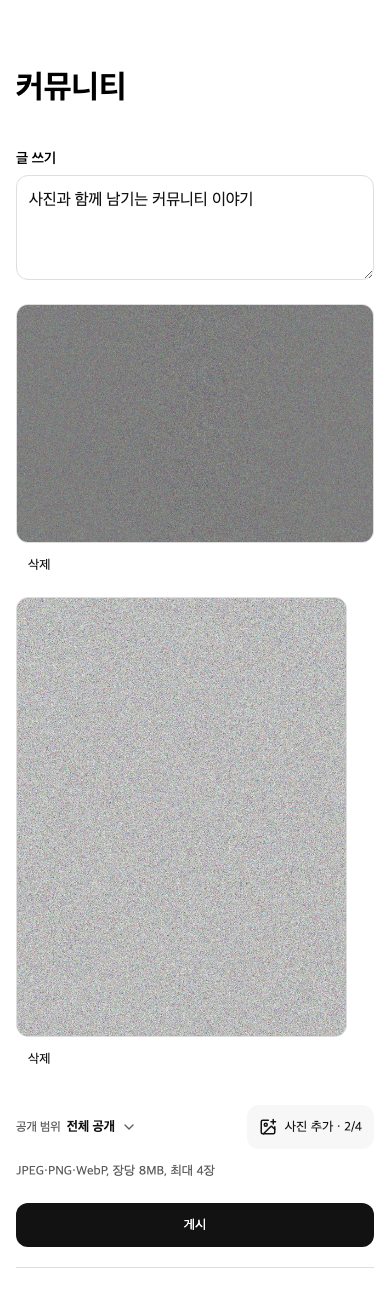
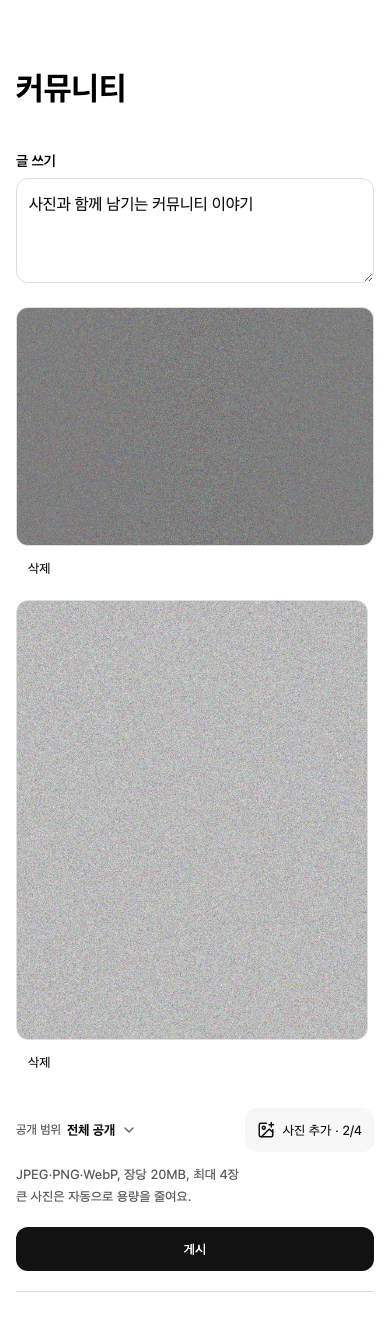
fix: improve automatic photo upload and retry feedback

diff --git a/apps/web/i18n/catalogs/features__fan_posts__ui.ts b/apps/web/i18n/catalogs/features__fan_posts__ui.ts
@@ -43,14 +43,17 @@ export const contentMessages = {
     "translationFailed": "번역하지 못했어요. 원문을 확인해 주세요.",
     "translationLimit": "번역 이용 한도에 도달했어요. 나중에 다시 시도해 주세요.",
     "photoFailed": "사진을 불러오지 못했어요.",
-    "photoLimit": "JPEG·PNG·WebP, 장당 8MB, 최대 4장",
+    "photoLimit": "JPEG·PNG·WebP, 장당 20MB, 최대 4장",
     "visibility": "공개 범위",
     "back": "돌아가기",
     "newComment": "댓글 쓰기",
     "replying": "답글 작성 중",
     "notice": "공지",
     "artistPost": "아티스트 소식",
-    "memberRequired": "이 아티스트의 발급된 Passport가 필요해요."
+    "memberRequired": "이 아티스트의 발급된 Passport가 필요해요.",
+    "photoUploadHint": "큰 사진은 자동으로 용량을 줄여요.",
+    "photoUploading": "사진 올리는 중…",
+    "photoUploadFailed": "사진을 올리지 못했어요. 다시 시도해 주세요."
   },
   "en": {
     "community": "Fan community",
@@ -94,14 +97,17 @@ export const contentMessages = {
     "translationFailed": "Translation failed. Please view the original.",
     "translationLimit": "Translation limit reached. Please try again later.",
     "photoFailed": "Could not load the photo.",
-    "photoLimit": "JPEG, PNG or WebP, up to 8MB each, 4 photos maximum",
+    "photoLimit": "JPEG, PNG or WebP, up to 20MB each, 4 photos maximum",
     "visibility": "Visibility",
     "back": "Back",
     "newComment": "Write a comment",
     "replying": "Writing a reply",
     "notice": "Notice",
     "artistPost": "Artist update",
-    "memberRequired": "An issued Passport for this artist is required."
+    "memberRequired": "An issued Passport for this artist is required.",
+    "photoUploadHint": "Large photos are resized automatically.",
+    "photoUploading": "Uploading photos…",
+    "photoUploadFailed": "Could not upload the photos. Please try again."
   },
   "ja": {
     "community": "ファンコミュニティ",
@@ -145,14 +151,17 @@ export const contentMessages = {
     "translationFailed": "翻訳できませんでした。原文をご確認ください。",
     "translationLimit": "翻訳の利用上限に達しました。しばらくしてからお試しください。",
     "photoFailed": "写真を読み込めませんでした。",
-    "photoLimit": "JPEG・PNG・WebP、1枚8MBまで、最大4枚",
+    "photoLimit": "JPEG・PNG・WebP、1枚20MBまで、最大4枚",
     "visibility": "公開範囲",
     "back": "戻る",
     "newComment": "コメントを書く",
     "replying": "返信を入力中",
     "notice": "お知らせ",
     "artistPost": "アーティスト情報",
-    "memberRequired": "このアーティストの発行済みPassportが必要です。"
+    "memberRequired": "このアーティストの発行済みPassportが必要です。",
+    "photoUploadHint": "容量の大きい写真は自動で縮小します。",
+    "photoUploading": "写真をアップロード中…",
+    "photoUploadFailed": "写真をアップロードできませんでした。もう一度お試しください。"
   },
   "zh-Hans": {
     "community": "粉丝社区",
@@ -196,14 +205,17 @@ export const contentMessages = {
     "translationFailed": "翻译失败，请查看原文。",
     "translationLimit": "已达到翻译使用上限，请稍后重试。",
     "photoFailed": "照片加载失败。",
-    "photoLimit": "JPEG、PNG或WebP，每张不超过8MB，最多4张",
+    "photoLimit": "JPEG、PNG或WebP，每张不超过20MB，最多4张",
     "visibility": "可见范围",
     "back": "返回",
     "newComment": "发表评论",
     "replying": "正在回复",
     "notice": "公告",
     "artistPost": "艺人动态",
-    "memberRequired": "需要持有已签发的该艺人Passport。"
+    "memberRequired": "需要持有已签发的该艺人Passport。",
+    "photoUploadHint": "较大的照片会自动压缩。",
+    "photoUploading": "正在上传照片…",
+    "photoUploadFailed": "照片上传失败，请重试。"
   },
   "zh-Hant": {
     "community": "粉絲社群",
@@ -247,14 +259,17 @@ export const contentMessages = {
     "translationFailed": "翻譯失敗，請查看原文。",
     "translationLimit": "已達翻譯使用上限，請稍後重試。",
     "photoFailed": "照片載入失敗。",
-    "photoLimit": "JPEG、PNG或WebP，每張最多8MB，最多4張",
+    "photoLimit": "JPEG、PNG或WebP，每張最多20MB，最多4張",
     "visibility": "可見範圍",
     "back": "返回",
     "newComment": "撰寫留言",
     "replying": "正在回覆",
     "notice": "公告",
     "artistPost": "藝人動態",
-    "memberRequired": "需要持有已核發的這位藝人Passport。"
+    "memberRequired": "需要持有已核發的這位藝人Passport。",
+    "photoUploadHint": "較大的照片會自動壓縮。",
+    "photoUploading": "正在上傳照片…",
+    "photoUploadFailed": "照片上傳失敗，請重試。"
   },
   "es": {
     "community": "Comunidad de fans",
@@ -298,14 +313,17 @@ export const contentMessages = {
     "translationFailed": "No se pudo traducir. Consulta el original.",
     "translationLimit": "Se alcanzó el límite de traducción. Inténtalo más tarde.",
     "photoFailed": "No se pudo cargar la foto.",
-    "photoLimit": "JPEG, PNG o WebP, hasta 8MB por foto, máximo 4",
+    "photoLimit": "JPEG, PNG o WebP, hasta 20MB por foto, máximo 4",
     "visibility": "Visibilidad",
     "back": "Volver",
     "newComment": "Escribir comentario",
     "replying": "Escribiendo una respuesta",
     "notice": "Aviso",
     "artistPost": "Novedad del artista",
-    "memberRequired": "Se requiere un Passport emitido de este artista."
+    "memberRequired": "Se requiere un Passport emitido de este artista.",
+    "photoUploadHint": "Las fotos grandes se reducen automáticamente.",
+    "photoUploading": "Subiendo fotos…",
+    "photoUploadFailed": "No se pudieron subir las fotos. Vuelve a intentarlo."
   },
   "id": {
     "community": "Komunitas penggemar",
@@ -349,14 +367,17 @@ export const contentMessages = {
     "translationFailed": "Terjemahan gagal. Silakan lihat teks asli.",
     "translationLimit": "Batas terjemahan tercapai. Coba lagi nanti.",
     "photoFailed": "Foto tidak dapat dimuat.",
-    "photoLimit": "JPEG, PNG, atau WebP, maks. 8MB per foto, hingga 4 foto",
+    "photoLimit": "JPEG, PNG, atau WebP, maks. 20MB per foto, hingga 4 foto",
     "visibility": "Visibilitas",
     "back": "Kembali",
     "newComment": "Tulis komentar",
     "replying": "Menulis balasan",
     "notice": "Pengumuman",
     "artistPost": "Kabar artis",
-    "memberRequired": "Diperlukan Passport yang telah diterbitkan untuk artis ini."
+    "memberRequired": "Diperlukan Passport yang telah diterbitkan untuk artis ini.",
+    "photoUploadHint": "Foto berukuran besar diperkecil otomatis.",
+    "photoUploading": "Mengunggah foto…",
+    "photoUploadFailed": "Foto tidak dapat diunggah. Silakan coba lagi."
   },
   "vi": {
     "community": "Cộng đồng người hâm mộ",
@@ -400,14 +421,17 @@ export const contentMessages = {
     "translationFailed": "Không thể dịch. Vui lòng xem bản gốc.",
     "translationLimit": "Đã đạt giới hạn dịch. Vui lòng thử lại sau.",
     "photoFailed": "Không thể tải ảnh.",
-    "photoLimit": "JPEG, PNG hoặc WebP, tối đa 8MB mỗi ảnh, tối đa 4 ảnh",
+    "photoLimit": "JPEG, PNG hoặc WebP, tối đa 20MB mỗi ảnh, tối đa 4 ảnh",
     "visibility": "Phạm vi hiển thị",
     "back": "Quay lại",
     "newComment": "Viết bình luận",
     "replying": "Đang viết trả lời",
     "notice": "Thông báo",
     "artistPost": "Tin nghệ sĩ",
-    "memberRequired": "Cần có Passport đã được cấp cho nghệ sĩ này."
+    "memberRequired": "Cần có Passport đã được cấp cho nghệ sĩ này.",
+    "photoUploadHint": "Ảnh có dung lượng lớn được tự động giảm kích thước.",
+    "photoUploading": "Đang tải ảnh lên…",
+    "photoUploadFailed": "Không thể tải ảnh lên. Vui lòng thử lại."
   },
   "th": {
     "community": "ชุมชนแฟนคลับ",
@@ -451,14 +475,17 @@ export const contentMessages = {
     "translationFailed": "แปลไม่สำเร็จ โปรดดูต้นฉบับ",
     "translationLimit": "ถึงขีดจำกัดการแปลแล้ว โปรดลองใหม่ภายหลัง",
     "photoFailed": "โหลดรูปไม่สำเร็จ",
-    "photoLimit": "JPEG, PNG หรือ WebP ไม่เกินรูปละ 8MB สูงสุด 4 รูป",
+    "photoLimit": "JPEG, PNG หรือ WebP ไม่เกินรูปละ 20MB สูงสุด 4 รูป",
     "visibility": "การมองเห็น",
     "back": "กลับ",
     "newComment": "เขียนความคิดเห็น",
     "replying": "กำลังเขียนคำตอบ",
     "notice": "ประกาศ",
     "artistPost": "ข่าวศิลปิน",
-    "memberRequired": "ต้องมี Passport ที่ออกให้แล้วสำหรับศิลปินนี้"
+    "memberRequired": "ต้องมี Passport ที่ออกให้แล้วสำหรับศิลปินนี้",
+    "photoUploadHint": "รูปภาพขนาดใหญ่จะถูกลดขนาดโดยอัตโนมัติ",
+    "photoUploading": "กำลังอัปโหลดรูปภาพ…",
+    "photoUploadFailed": "อัปโหลดรูปภาพไม่ได้ โปรดลองอีกครั้ง"
   },
   "pt": {
     "community": "Comunidade de fãs",
@@ -502,14 +529,17 @@ export const contentMessages = {
     "translationFailed": "Não foi possível traduzir. Consulte o original.",
     "translationLimit": "Limite de tradução atingido. Tente mais tarde.",
     "photoFailed": "Não foi possível carregar a foto.",
-    "photoLimit": "JPEG, PNG ou WebP, até 8MB por foto, máximo de 4",
+    "photoLimit": "JPEG, PNG ou WebP, até 20MB por foto, máximo de 4",
     "visibility": "Visibilidade",
     "back": "Voltar",
     "newComment": "Escrever comentário",
     "replying": "A escrever uma resposta",
     "notice": "Aviso",
     "artistPost": "Novidade do artista",
-    "memberRequired": "É necessário um Passport emitido deste artista."
+    "memberRequired": "É necessário um Passport emitido deste artista.",
+    "photoUploadHint": "Fotos grandes são reduzidas automaticamente.",
+    "photoUploading": "Enviando fotos…",
+    "photoUploadFailed": "Não foi possível enviar as fotos. Tente novamente."
   },
   "fr": {
     "community": "Communauté de fans",
@@ -553,14 +583,17 @@ export const contentMessages = {
     "translationFailed": "Échec de la traduction. Consultez l’original.",
     "translationLimit": "Limite de traduction atteinte. Réessayez plus tard.",
     "photoFailed": "Impossible de charger la photo.",
-    "photoLimit": "JPEG, PNG ou WebP, 8Mo par photo, 4 photos maximum",
+    "photoLimit": "JPEG, PNG ou WebP, 20Mo par photo, 4 photos maximum",
     "visibility": "Visibilité",
     "back": "Retour",
     "newComment": "Écrire un commentaire",
     "replying": "Rédaction d’une réponse",
     "notice": "Annonce",
     "artistPost": "Actualité de l’artiste",
-    "memberRequired": "Un Passport émis pour cet artiste est nécessaire."
+    "memberRequired": "Un Passport émis pour cet artiste est nécessaire.",
+    "photoUploadHint": "Les grandes photos sont redimensionnées automatiquement.",
+    "photoUploading": "Envoi des photos…",
+    "photoUploadFailed": "Impossible d’envoyer les photos. Réessayez."
   }
 } as const;
 export function contentCopy(locale: AppLocale) { return contentMessages[locale]; }

diff --git a/apps/web/features/fan-posts/ui/post-composer.tsx b/apps/web/features/fan-posts/ui/post-composer.tsx
@@ -18,7 +18,7 @@ import { contentCopy } from "@/i18n/catalogs/features__fan_posts__ui";
 import type { AppLocale } from "@/i18n/locales";
 import { waveEngagementCopy } from "@/i18n/catalogs/features__fanpage__wave-engagement";
 import { wavePrivacyCopy } from "@/i18n/catalogs/features__fanpage__wave-privacy";
-import { preparePostPhoto } from "./prepare-post-photo";
+import { MAX_POST_PHOTO_BYTES, preparePostPhoto } from "./prepare-post-photo";
 import styles from "@/features/content-safety/ui/content.module.css";
 
 export function PostComposer({ introduction = false, program, slug, locale, post, onSaved, onCancel, featured = false, autoFocus = false, allowMembers = true }: { introduction?: boolean; program?: WaveProgramKey; slug: string; locale: AppLocale; post?: FanPost; onSaved: () => void; onCancel?: () => void; featured?: boolean; autoFocus?: boolean; allowMembers?: boolean }) {
@@ -37,6 +37,7 @@ export function PostComposer({ introduction = false, program, slug, locale, post
   const [assets, setAssets] = useState<ContentAsset[]>(post?.assets ?? []), [problem, setProblem] = useState(""), [visibilityOpen, setVisibilityOpen] = useState(false);
   const [isMobile, setIsMobile] = useState(false), photoInput = useRef<HTMLInputElement>(null);
   const [uploading, setUploading] = useState(false);
+  const [failedPhotos, setFailedPhotos] = useState<File[]>([]);
   const uploadPending = useRef<AbortController | null>(null);
   useEffect(() => () => uploadPending.current?.abort(), [session.ownerId, session.generation]);
   const busy = mutation.busy || uploading;
@@ -47,11 +48,13 @@ export function PostComposer({ introduction = false, program, slug, locale, post
     sync(); media.addEventListener("change", sync);
     return () => media.removeEventListener("change", sync);
   }, []);
-  async function upload(files: FileList | null) {
+  async function upload(files: FileList | File[] | null) {
     if (!files?.length || hasVideo || uploadPending.current || mutation.busy) return;
     const selectedFiles = Array.from(files);
-    if (selectedFiles.length + assets.length > 4 || selectedFiles.some(file => file.size > 8 * 1024 * 1024)) { setProblem(copy.photoLimit); return; }
+    if (selectedFiles.length + assets.length > 4 || selectedFiles.some(file => file.size > MAX_POST_PHOTO_BYTES)) { setProblem(copy.photoLimit); return; }
     setProblem("");
+    setFailedPhotos([]);
+    let completed = 0;
     const controller = new AbortController();
     uploadPending.current = controller;
     setUploading(true);
@@ -62,13 +65,14 @@ export function PostComposer({ introduction = false, program, slug, locale, post
         const form = new FormData(); form.set("file", prepared); form.set("celebritySlug", slug);
         const result = await mutation.request("/api/content-assets", "POST", form);
         controller.signal.throwIfAborted();
-        if (!result) { setProblem(copy.failed); break; }
+        if (!result) throw new Error("UPLOAD_FAILED");
         const parsed = assetSchema.safeParse((result as { asset?: unknown } | null)?.asset);
-        if (!parsed.success) { setProblem(copy.failed); break; }
+        if (!parsed.success) throw new Error("UPLOAD_FAILED");
         setAssets(current => [...current, parsed.data]);
+        completed += 1;
       }
     } catch {
-      if (!controller.signal.aborted) setProblem(copy.failed);
+      if (!controller.signal.aborted) { setProblem(copy.photoUploadFailed); setFailedPhotos(selectedFiles.slice(completed)); }
     } finally {
       uploadPending.current = null;
       setUploading(false);
@@ -107,9 +111,10 @@ export function PostComposer({ introduction = false, program, slug, locale, post
       <div className={styles.visibilityActions}><button type="button" onClick={() => setVisibilityOpen(false)}>{copy.cancel}</button></div>
     </AccessibleOverlay>}
     {allowMembers && !program && !isWave && visibility === "members" && <small id={`${fieldId}-members-hint`} className={styles.hint}>{copy.memberRequired}</small>}
-    <small id={`${fieldId}-hint`} className={styles.hint}>{copy.photoLimit}{isWave && <> {mediaCopy.videoLimit}</>}</small>
-    <div className={styles.actions}><FanAction variant="primary" type="submit" disabled={busy || videoUploads.busy || videoUploads.items.some(item => item.failed) || (requireBody ? !body.trim() : !body.trim() && !assets.length && !video)} ariaBusy={busy}>{busy ? copy.loading : post ? copy.save : copy.publish}</FanAction>{onCancel && <FanAction disabled={busy} onClick={onCancel}>{copy.cancel}</FanAction>}</div>
+    <small id={`${fieldId}-hint`} className={styles.hint}>{copy.photoLimit} <br />{copy.photoUploadHint}{isWave && <> {mediaCopy.videoLimit}</>}</small>
+    <div className={styles.actions}><FanAction variant="primary" type="submit" disabled={busy || videoUploads.busy || videoUploads.items.some(item => item.failed) || (requireBody ? !body.trim() : !body.trim() && !assets.length && !video)} ariaBusy={busy}>{uploading ? copy.photoUploading : mutation.busy ? copy.loading : post ? copy.save : copy.publish}</FanAction>{onCancel && <FanAction disabled={busy} onClick={onCancel}>{copy.cancel}</FanAction>}</div>
     {isWave && videoUploads.invalid && <p className={styles.error} role="alert">{mediaCopy.videoLimit}</p>}
     {(problem || mutation.error) && <p id={problem ? `${fieldId}-photo-error` : undefined} className={styles.error} role="alert">{problem || mutation.error}</p>}
+    {failedPhotos.length > 0 && <FanAction disabled={busy} onClick={() => void upload(failedPhotos)}>{copy.retry}</FanAction>}
   </form>;
 }

diff --git a/apps/web/features/content-safety/ui/content-actions.test.tsx b/apps/web/features/content-safety/ui/content-actions.test.tsx
@@ -153,7 +153,23 @@ describe("content ownership and retries", () => {
 
     expect(input).toHaveAttribute("aria-invalid", "true");
     const descriptions = input.getAttribute("aria-describedby")!.split(" ").map(value => document.getElementById(value)?.textContent);
-    expect(descriptions).toEqual(["JPEG, PNG or WebP, up to 8MB each, 4 photos maximum", "JPEG, PNG or WebP, up to 8MB each, 4 photos maximum"]);
+    expect(descriptions).toEqual(["JPEG, PNG or WebP, up to 20MB each, 4 photos maximum Large photos are resized automatically.", "JPEG, PNG or WebP, up to 20MB each, 4 photos maximum"]);
+  });
+  it("retries a failed photo without selecting it again or losing the draft", async () => {
+    const fetcher = vi.fn().mockResolvedValueOnce(Response.json({ error: { code: "UNAVAILABLE" } }, { status: 503 }))
+      .mockResolvedValueOnce(Response.json({ asset: { id, width: 640, height: 480 } }, { status: 201 }))
+      .mockResolvedValue(new Response(null, { status: 404 }));
+    vi.stubGlobal("fetch", fetcher);
+    render(<PostComposer slug="artist" locale="en" onSaved={vi.fn()} />);
+    fireEvent.change(screen.getByRole("textbox"), { target: { value: "Keep this draft" } });
+    fireEvent.change(screen.getByLabelText("Add photos"), { target: { files: [new File(["photo"], "camera.jpg", { type: "image/jpeg" })] } });
+    await screen.findByText("Could not upload the photos. Please try again.");
+    fireEvent.click(screen.getByRole("button", { name: "Retry" }));
+    await screen.findByRole("button", { name: "Add photos · 1/4" });
+    expect(screen.getByRole("textbox")).toHaveValue("Keep this draft");
+    const uploads = fetcher.mock.calls.filter(([url]) => url === "/api/content-assets");
+    expect(uploads).toHaveLength(2);
+    expect(uploads.map(([, init]) => init.body.get("file").name)).toEqual(["camera.jpg", "camera.jpg"]);
   });
   it("keeps a loaded image when the SDK changes only the token provider identity", async () => {
     const fetcher = vi.fn(async () => new Response(new Blob(["image"])));

diff --git a/apps/web/features/fan-posts/ui/prepare-post-photo.test.ts b/apps/web/features/fan-posts/ui/prepare-post-photo.test.ts
@@ -2,7 +2,7 @@ import { afterEach, expect, it, vi } from "vitest";
 import { preparePostPhoto } from "./prepare-post-photo";
 
 afterEach(() => { vi.restoreAllMocks(); vi.unstubAllGlobals(); });
-const largePhoto = () => new File([new Uint8Array(6 * 1024 * 1024)], "camera.jpg", { type: "image/jpeg" });
+const largePhoto = () => new File([new Uint8Array(12 * 1024 * 1024)], "camera.jpg", { type: "image/jpeg" });
 function browserImage() {
   const revoke = vi.fn(), draw = vi.fn();
   vi.stubGlobal("URL", class extends URL { static createObjectURL = () => "blob:photo"; static revokeObjectURL = revoke; });
@@ -37,6 +37,6 @@ it("releases resources when encoding fails", async () => {
   await expect(preparePostPhoto(largePhoto())).rejects.toThrow("INVALID_IMAGE");
   expect(revoke).toHaveBeenCalledOnce();
 });
-it("keeps the original 8 MB input limit", async () => {
-  await expect(preparePostPhoto(new File([new Uint8Array(8 * 1024 * 1024 + 1)], "large.jpg", { type: "image/jpeg" }))).rejects.toThrow("INVALID_IMAGE");
+it("keeps the 20 MB input safety limit", async () => {
+  await expect(preparePostPhoto(new File([new Uint8Array(20 * 1024 * 1024 + 1)], "large.jpg", { type: "image/jpeg" }))).rejects.toThrow("INVALID_IMAGE");
 });

diff --git a/apps/web/e2e/community-photo-local/main.tsx b/apps/web/e2e/community-photo-local/main.tsx
@@ -1,9 +1,11 @@
 import { useState } from "react";
 import { createRoot } from "react-dom/client";
+import { APP_LOCALES } from "../../i18n/locales";
 import { PostComposer } from "../../features/fan-posts/ui/post-composer";
 import "../../app/globals.css";
 function App() {
+  const locale = APP_LOCALES.find(value => value === new URLSearchParams(location.search).get("locale")) ?? "ko";
   const [saved, setSaved] = useState(false);
-  return <main style={{ maxWidth: 640, margin: "32px auto", padding: 16 }}><h1>커뮤니티</h1>{saved ? <p role="status">게시 완료</p> : <PostComposer slug="elina" locale="ko" onSaved={() => setSaved(true)} />}</main>;
+  return <main style={{ maxWidth: 640, margin: "32px auto", padding: 16, fontFamily: "system-ui, sans-serif" }}><h1>커뮤니티</h1>{saved ? <p role="status">게시 완료</p> : <PostComposer slug="elina" locale={locale} onSaved={() => setSaved(true)} />}</main>;
 }
 createRoot(document.getElementById("root")!).render(<App />);

diff --git a/apps/web/features/fan-posts/ui/prepare-post-photo.ts b/apps/web/features/fan-posts/ui/prepare-post-photo.ts
@@ -1,9 +1,11 @@
 // Leave room for multipart headers below the hosting platform's 4.5 MB limit.
 const MAX_UPLOAD_BYTES = 4 * 1024 * 1024;
 
+export const MAX_POST_PHOTO_BYTES = 20 * 1024 * 1024;
+
 export async function preparePostPhoto(file: File): Promise<File> {
   if (file.size <= MAX_UPLOAD_BYTES) return file;
-  if (file.size > 8 * 1024 * 1024 || !["image/jpeg", "image/png", "image/webp"].includes(file.type)) throw new Error("INVALID_IMAGE");
+  if (file.size > MAX_POST_PHOTO_BYTES || !["image/jpeg", "image/png", "image/webp"].includes(file.type)) throw new Error("INVALID_IMAGE");
   const url = URL.createObjectURL(file), image = new Image();
   const canvas = document.createElement("canvas");
   try {
